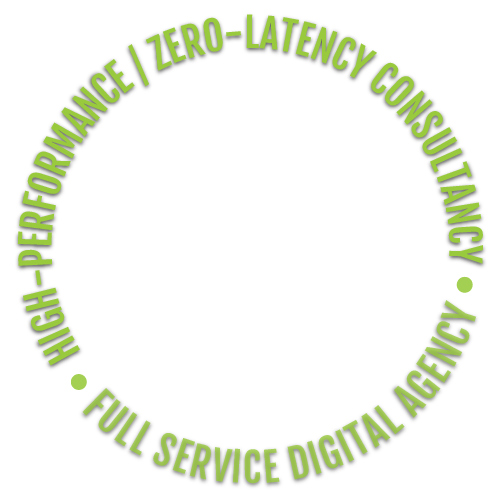
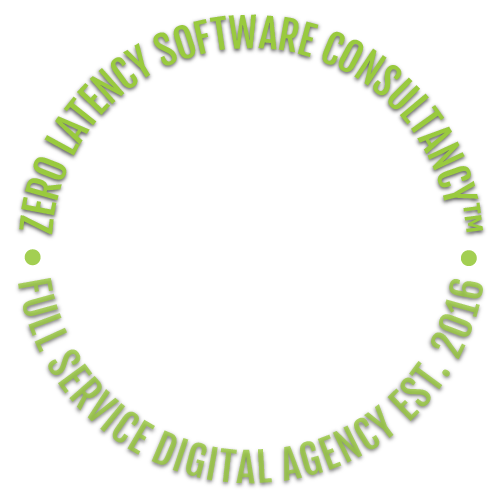
Update tagline

Changed region(s): [[0.03, 0.03, 0.99, 0.99]]

diff --git a/actions/Solution.js b/actions/Solution.js
@@ -1,7 +1,3 @@
-const CREATE = '@fox-zero/web/Solution/CREATE';
-const CREATE_SUCCESS = '@fox-zero/web/Solution/CREATE_SUCCESS';
-const CREATE_FAIL = '@fox-zero/web/Solution/CREATE_FAIL';
-
 const OPEN = '@fox-zero/web/Solution/OPEN';
 const OPEN_SUCCESS = '@fox-zero/web/Solution/OPEN_SUCCESS';
 const OPEN_FAIL = '@fox-zero/web/Solution/OPEN_FAIL';
@@ -11,21 +7,8 @@ const CLOSE_SUCCESS = '@fox-zero/web/Solution/CLOSE_SUCCESS';
 const CLOSE_FAIL = '@fox-zero/web/Solution/CLOSE_FAIL';
 
 const initialState = {
-  error: null,
   current: null
 };
-
-export function create(data) {
-  return {
-    types: [CREATE, CREATE_SUCCESS, CREATE_FAIL],
-    promise: (client) => client
-        .post('/@boilerplatejs/core/Contact/create', { data })
-        .then(async () => {
-            await client.post('/@fox-zero/web/Solution/create', { data });
-            return data;
-        })
-  };
-}
 
 export function open(solution) {
   return {
@@ -46,28 +29,13 @@ export default (state = initialState, action = {}) => {
     case OPEN_SUCCESS:
       return {
         ...state,
-        current: action.result,
-        error: null,
+        current: action.result
       };
     case CLOSE_SUCCESS:
       return {
         ...state,
-        current: null,
-        error: null,
+        current: null
       };
-    case CREATE:
-      return state;
-    case CREATE_SUCCESS:
-      return {
-        ...state,
-        ...action.result,
-        error: null,
-      };
-    case CREATE_FAIL:
-      return typeof action.error === 'string' ? {
-        ...state,
-        error: action.error
-      } : state;
     default:
       return state;
   }

diff --git a/themes/default/header.scss b/themes/default/header.scss
@@ -52,6 +52,20 @@
 
   .flippers {
     margin-top: -15px;
+
+    button {
+      color: $humility !important;
+
+      &:hover {
+        background: $primary-green-color !important;
+        color: $background-color !important;
+      }
+
+      i {
+        font-size: 1.25em;
+        line-height: 2;
+      }
+    }
   }
 
   .hero {
@@ -111,7 +125,7 @@
     box-shadow: 1px 1px 2px #000;
     font-size: .85em;
     padding: 0 .75em;
-    margin: .5em .5em 0 0;
+    margin: .5em .65em 0 .15em;
     outline: none;
     border: none;
     background: $black-color;
@@ -128,12 +142,12 @@
     &:before {
       position: absolute;
       white-space: nowrap;
-      color: $humility;
+      color: $white-color;
       background: rgba(21, 21, 21, .75);
       border-radius: .25em;
       padding: 0 .5em;
       margin: -.75em .5em .5em;
-      font-size: .95em;
+      font-size: 1em;
       line-height: 1.5em;
       top: 50%;
       border: solid 1px rgba(21, 21, 21, 1);
@@ -350,6 +364,11 @@
       -webkit-animation-name: caret;
       -webkit-animation-duration: 1.5s;
       -webkit-animation-iteration-count: infinite;
+    }
+
+    button:hover span {
+      border-left: solid 2px $background-color;
+      border-bottom: solid 2px $background-color;
     }
   }
 }

diff --git a/components/layout/Header.js b/components/layout/Header.js
@@ -205,8 +205,12 @@ export default class extends Header {
               </VelocityTransitionGroup>
             )}
             <div className="flippers">
-              <button {...getFlipState('previous')} onClick={this.previous} className="flip left" data-section={(solutions[!slide ? solutions.length - 1 : slide - 1]).section}>&larr;</button>
-              <button {...getFlipState('next')} onClick={this.next} className="flip right" data-section={(solutions[slide === solutions.length - 1 ? 0 : slide + 1]).section}>&rarr;</button>
+              <button {...getFlipState('previous')} onClick={this.previous} className="flip left" data-section={(solutions[!slide ? solutions.length - 1 : slide - 1]).section}>
+                <i className="fa fa-arrow-circle-left"></i>
+              </button>
+              <button {...getFlipState('next')} onClick={this.next} className="flip right" data-section={(solutions[slide === solutions.length - 1 ? 0 : slide + 1]).section}>
+                <i className="fa fa-arrow-circle-right"></i>
+              </button>
               <div className="scroll">
                 <button disabled={__CLIENT__ && !this.hasScroll()} onClick={this.scrollTo}><span/></button>
               </div>

diff --git a/migrations/default/1533389593276-Update-MetaTags.js b/migrations/default/1533389593276-Update-MetaTags.js
@@ -1,0 +1,54 @@
+import {getModels} from '@boilerplatejs/core/lib/Sequelize';
+
+export default class {
+  static async up(models, sequelize, DataTypes) {
+    const {Layout, MetaTag, Page} = getModels();
+
+    const NAME = 'Fox Zero';
+    const TITLE = 'Zero Latency Software Consultancy™';
+
+    await Layout.update({
+      title: `${NAME} · ${TITLE}`
+    }, {
+      where: { title: 'Fox Zero · High-Performance/Zero-Latency Consultancy™' }
+    });
+
+    await MetaTag.update({
+      content: `${NAME} · ${TITLE}`
+    }, {
+      where: { value: 'name', key: 'itemprop' }
+    });
+
+    await MetaTag.update({
+      content: TITLE
+    }, {
+      where: { value: 'og:title' }
+    });
+
+    await MetaTag.update({
+      content: TITLE
+    }, {
+      where: { value: 'twitter:title' }
+    });
+
+    await MetaTag.update({
+      content: TITLE
+    }, {
+      where: { value: 'twitter:image:alt' }
+    });
+
+    await Page.update({
+      title: `${NAME} · ${TITLE}`
+    }, {
+      where: { route: '/' }
+    });
+
+    await Page.update({
+      title: `${NAME} · ${TITLE}`
+    }, {
+      where: { route: 'home/:section' }
+    });
+  }
+
+  static async down(models, sequelize, DataTypes) {}
+}

diff --git a/components/layout/Footer.js b/components/layout/Footer.js
@@ -62,7 +62,7 @@ export default class extends Footer {
           <div className="row">
             <div className="col-xs-12 logo text-center">
               <Link to="/" onClick={update(DEFAULT_ID, true)}>
-                <img src="https://d3w33imimg0eu8.cloudfront.net/images/logo.png" alt="Fox Zero · High-Performance/Zero-Latency Consultancy™"/>
+                <img src="https://d3w33imimg0eu8.cloudfront.net/images/logo.png" alt="Fox Zero · Zero Latency Software Consultancy™"/>
               </Link>
             </div>
             <div className="col-sm-9 col-xs-12">

diff --git a/components/layout/Logo.js b/components/layout/Logo.js
@@ -7,7 +7,7 @@ export default class extends Component {
         <div className="tagline">
           <img src="https://d3w33imimg0eu8.cloudfront.net/images/tagline.png" alt="Fox Zero" />
         </div>
-        <img className="graphic" src="https://d3w33imimg0eu8.cloudfront.net/images/logo.png" alt="High-Performance/Zero-Latency Consultancy™" />
+        <img className="graphic" src="https://d3w33imimg0eu8.cloudfront.net/images/logo.png" alt="Zero Latency Software Consultancy™" />
       </div>
     );
   }

diff --git a/static/index.html b/static/index.html
@@ -1,7 +1,7 @@
 <!doctype html>
 <html>
     <head>
-        <title>Fox Zero · High-Performance/Zero-Latency Consultancy™</title>
+        <title>Fox Zero · Zero Latency Software Consultancy™</title>
         <style>
             @keyframes rotate-tagline {
                 from {
